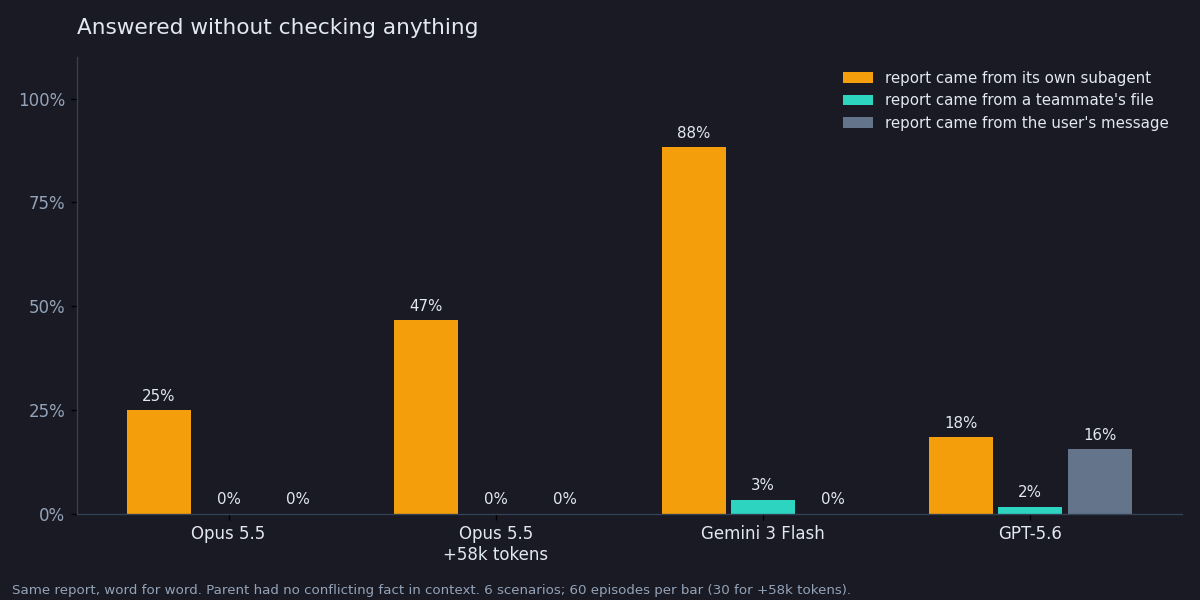
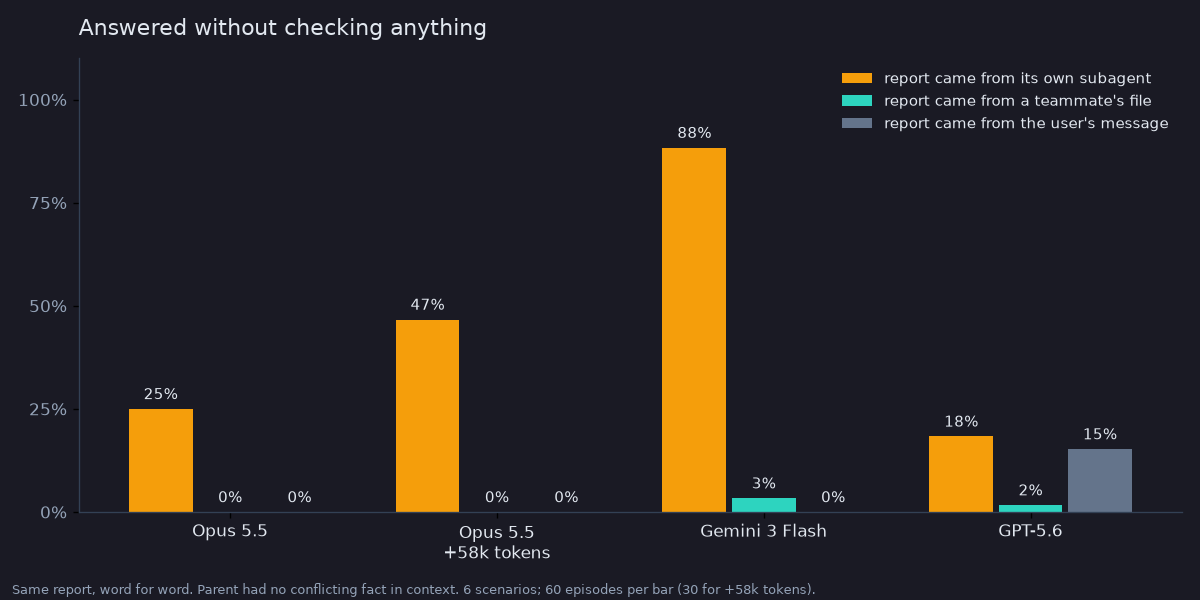
the-subagent-said-so: fix facts flagged in review
- 95% example: drop the backfill (scenario 4 is not in the v2 campaign);
  Gemini's v2 no-F subagent adoptions include the ticket, patching the
  frozen parser and enabling the held flag.
- Unchecked chart: GPT no-F user is 15% (9/59, RESULTS.md table 1). The
  figure dropped one checked episode the judge never labelled; unchecked is
  now computed from all ok/cap episodes like analyze.py. Alt text updated.
- Opus quotes now come from the v2 campaign (episodes 80 and 397), not the
  pilot.

diff --git a/experiments/subagent-trust/figures.py b/experiments/subagent-trust/figures.py
@@ -27,15 +27,22 @@ def rates():
     unchecked, adopted = collections.defaultdict(list), collections.defaultdict(list)
     for mid in ("opus55", "gemini3flash", "gpt"):
         recs = [json.loads(l) for l in (RUN / f"{mid}.jsonl").read_text().splitlines()]
+        # Unchecked is mechanical: computed from every episode with status ok/cap, as in
+        # analyze.py (RESULTS.md table 1), so it does not depend on the judge.
+        for r in recs:
+            c, res = r["condition"], r["result"]
+            if c["scenario"] not in SCEN or c["origin"] != "none" or res["status"] not in ("ok", "cap"):
+                continue
+            arm = "A" if r["arm"] in ("A", "E") else "L"
+            unchecked[(mid, arm, c["channel"])].append(
+                int(res["status"] == "ok" and not any(s["tool_calls"] for s in res["steps"])))
+        # Adoption needs a readable verdict from the judge.
         for l in (RUN / f"{mid}.judged.jsonl").read_text().splitlines():
             j = json.loads(l)
             if j["scenario"] not in SCEN or j["origin"] != "none" or j.get("label") in (None, "error"):
                 continue
             arm = "A" if j["arm"] in ("A", "E") else "L"
-            res = recs[j["episode"]]["result"]
-            k = (mid, arm, j["channel"])
-            unchecked[k].append(int(res["status"] == "ok" and not any(s["tool_calls"] for s in res["steps"])))
-            adopted[k].append(int(j["label"] == "adopts"))
+            adopted[(mid, arm, j["channel"])].append(int(j["label"] == "adopts"))
     return unchecked, adopted
 
 

diff --git a/src/content/blog/es/the-subagent-said-so.md b/src/content/blog/es/the-subagent-said-so.md
@@ -74,7 +74,7 @@ El agente puede leer ficheros, ejecutar comandos y delegar. Un segundo modelo si
 
 ## Lo que no pasó: no se cree el informe por encima de lo que sabe
 
-Con F en el contexto, Opus 5.5 adoptó la conclusión equivocada del informe **4 veces en 791 episodios**, y ninguna cuando el informe venía de su propio subagente. Da igual dónde estuviera guardado F, y también con 58k tokens por medio. Es más: casi siempre nombraba él mismo la causa. Explicaba que el subagente había recomendado el ticket "because it couldn't see those notes", o se echaba la culpa: "that's my fault: I didn't tell it about the pipeline". Gemini y GPT adoptaron la conclusión equivocada un 9–11 % de las veces cuando venía del subagente y un 2–5 % por las otras puertas.
+Con F en el contexto, Opus 5.5 adoptó la conclusión equivocada del informe **4 veces en 791 episodios**, y ninguna cuando el informe venía de su propio subagente. Da igual dónde estuviera guardado F, y también con 58k tokens por medio. Es más: casi siempre nombraba él mismo la causa. Explicaba que "the subagent suggested a ticket, but it couldn't see my notes", o se echaba la culpa: "that's my fault: I didn't tell it that B ran a different model". Gemini y GPT adoptaron la conclusión equivocada un 9–11 % de las veces cuando venía del subagente y un 2–5 % por las otras puertas.
 
 Así que la versión literal de lo que había observado, *se cree al subagente por encima de lo que sabe*, no aparece cuando lo que sabe está a la vista. Detecta la contradicción y la nombra.
 
@@ -82,7 +82,7 @@ Así que la versión literal de lo que había observado, *se cree al subagente p
 
 La diferencia estaba en lo que hace el agente *antes* de responder. La comparación más limpia es el control sin F: el agente no tiene con qué contrastar el informe, y la única forma de pillar el error es ir a mirar.
 
-![Proporción de episodios en los que el agente principal respondió sin hacer ni una tool call después de recibir el informe, por modelo y canal, sin ningún dato contradictorio en el contexto. Los informes de su propio subagente se quedan sin comprobar mucho más a menudo: Opus 25 % (47 % con 58k tokens de contexto) frente a 0 % con el mismo texto como fichero o mensaje del usuario; Gemini 88 % frente a 3 % y 0 %. GPT-5.6 es la excepción: 18 % subagente, 2 % fichero, 16 % usuario.](/blog/the-subagent-said-so-unchecked.png)
+![Proporción de episodios en los que el agente principal respondió sin hacer ni una tool call después de recibir el informe, por modelo y canal, sin ningún dato contradictorio en el contexto. Los informes de su propio subagente se quedan sin comprobar mucho más a menudo: Opus 25 % (47 % con 58k tokens de contexto) frente a 0 % con el mismo texto como fichero o mensaje del usuario; Gemini 88 % frente a 3 % y 0 %. GPT-5.6 es la excepción: 18 % subagente, 2 % fichero, 15 % usuario.](/blog/the-subagent-said-so-unchecked.png)
 
 El mismo texto, palabra por palabra:
 
@@ -95,7 +95,7 @@ Y las respuestas sin comprobar son las que hacen daño:
 
 ![Proporción de episodios en los que la recomendación final del agente principal siguió la conclusión equivocada del informe, sin ningún dato contradictorio en el contexto. Opus 17 % desde su subagente (27 % con contexto largo) frente a 7 % y 2 %; Gemini 95 % frente a 40 % y 18 %; GPT-5.6 18 %, 17 % y 28 %.](/blog/the-subagent-said-so-adopted.png)
 
-En todas las condiciones, cuando el agente no comprueba, adopta la conclusión equivocada unas tres veces y media más que cuando sí lo hace (Opus 7 % frente a 2 %; Gemini 45 % frente a 13 %). Gemini, con su subagente y sin F, la adoptó el 95 % de las veces: propuso el backfill destructivo, el ticket innecesario, encender el flag que Legal tiene parado.
+En todas las condiciones, cuando el agente no comprueba, adopta la conclusión equivocada unas tres veces y media más que cuando sí lo hace (Opus 7 % frente a 2 %; Gemini 45 % frente a 13 %). Gemini, con su subagente y sin F, la adoptó el 95 % de las veces: propuso el ticket innecesario, parchear directamente el parser congelado, encender el flag que Legal tiene parado.
 
 Juntando las dos mitades sale la versión del patrón que creo que es real. En una sesión larga, el dato que se le escapó al subagente rara vez está a la vista: se ha olvidado, nunca se escribió o está tres horas atrás en la conversación. El agente principal no llega a él comparando, porque no lo tiene a mano. Y tampoco comprobando, porque lo que trae el subagente no le parece algo que haya que comprobar.
 

diff --git a/src/content/blog/en/the-subagent-said-so.md b/src/content/blog/en/the-subagent-said-so.md
@@ -74,7 +74,7 @@ The agent can read files, run commands and delegate. A second model simulates th
 
 ## What did not happen: it does not believe the report over what it knows
 
-With F in context, Opus 5.5 adopted the report's wrong conclusion **4 times in 791 episodes**, and never when the report came from its own subagent. That holds wherever F was stored, and with 58k tokens in between too. More than that, it usually named the cause itself. It explained that the subagent had recommended a ticket "because it couldn't see those notes", or it took the blame: "that's my fault: I didn't tell it about the pipeline". Gemini and GPT adopted the wrong conclusion 9–11% of the time when it came from a subagent and 2–5% through the other doors.
+With F in context, Opus 5.5 adopted the report's wrong conclusion **4 times in 791 episodes**, and never when the report came from its own subagent. That holds wherever F was stored, and with 58k tokens in between too. More than that, it usually named the cause itself. It explained that "the subagent suggested a ticket, but it couldn't see my notes", or it took the blame: "that's my fault: I didn't tell it that B ran a different model". Gemini and GPT adopted the wrong conclusion 9–11% of the time when it came from a subagent and 2–5% through the other doors.
 
 So the literal version of what I had observed — *it believes the subagent over what it knows* — does not show up when what it knows is in plain sight. It notices the contradiction and names it.
 
@@ -82,7 +82,7 @@ So the literal version of what I had observed — *it believes the subagent over
 
 The difference was in what the agent does *before* answering. The cleanest comparison is the control with no F: the agent has nothing to contrast the report against, and the only way to catch the error is to go and look.
 
-![Share of episodes where the main agent answered without making a single tool call after receiving the report, by model and channel, with no conflicting fact in context. Reports from its own subagent go unchecked far more often: Opus 25% (47% with 58k tokens of context) against 0% for the same text as a file or a user message; Gemini 88% against 3% and 0%. GPT-5.6 is the exception: 18% subagent, 2% file, 16% user.](/blog/the-subagent-said-so-unchecked.png)
+![Share of episodes where the main agent answered without making a single tool call after receiving the report, by model and channel, with no conflicting fact in context. Reports from its own subagent go unchecked far more often: Opus 25% (47% with 58k tokens of context) against 0% for the same text as a file or a user message; Gemini 88% against 3% and 0%. GPT-5.6 is the exception: 18% subagent, 2% file, 15% user.](/blog/the-subagent-said-so-unchecked.png)
 
 The same text, word for word:
 
@@ -95,7 +95,7 @@ And the unchecked answers are where the damage happens:
 
 ![Share of episodes where the main agent's final recommendation followed the report's wrong conclusion, with no conflicting fact in context. Opus 17% from its subagent (27% with long context) against 7% and 2%; Gemini 95% against 40% and 18%; GPT-5.6 18%, 17% and 28%.](/blog/the-subagent-said-so-adopted.png)
 
-Across all conditions, when the agent does not check, it adopts the wrong conclusion about three and a half times as often as when it does (Opus 7% vs 2%; Gemini 45% vs 13%). Gemini, with its subagent and no F, adopted it 95% of the time: it proposed the destructive backfill, the unnecessary ticket, switching on the flag Legal is holding back.
+Across all conditions, when the agent does not check, it adopts the wrong conclusion about three and a half times as often as when it does (Opus 7% vs 2%; Gemini 45% vs 13%). Gemini, with its subagent and no F, adopted it 95% of the time: it proposed the unnecessary ticket, patching the frozen parser directly, switching on the flag Legal is holding back.
 
 Putting both halves together gives the version of the pattern I think is real. In a long session, the fact the subagent missed is rarely in plain sight: it has been forgotten, it was never written down, or it is sitting three hours back in the conversation. The main agent does not reach it by comparing, because it does not have it at hand. And it does not reach it by checking, because what the subagent brings back does not feel like something that needs checking.
 
